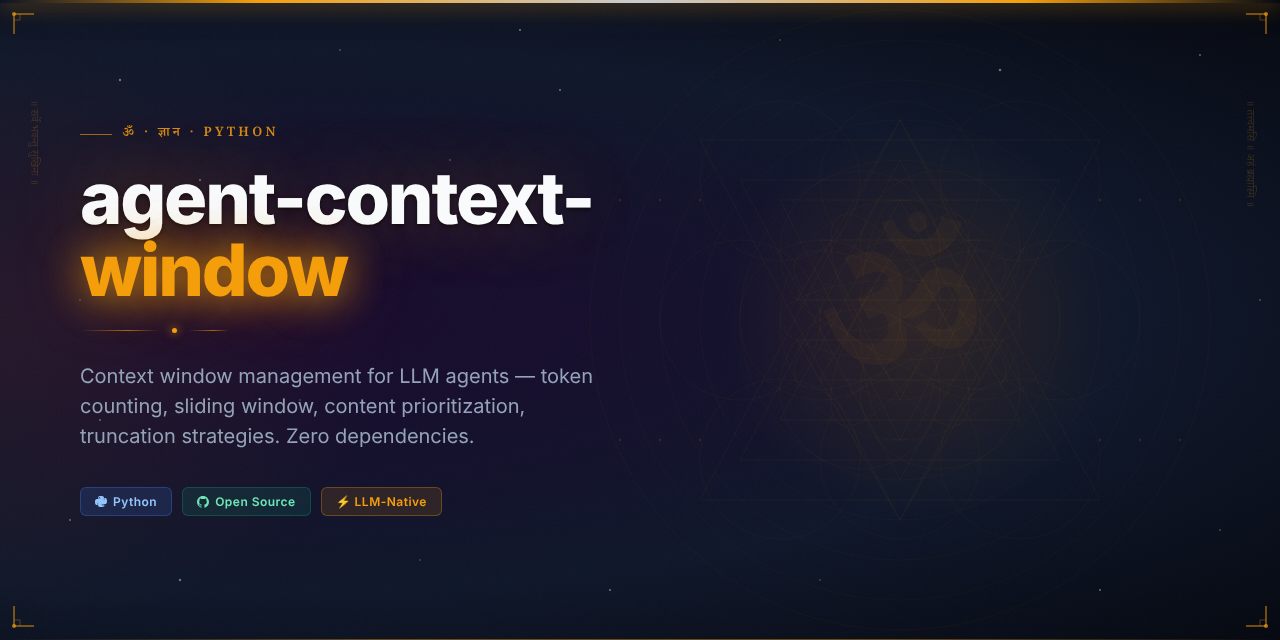
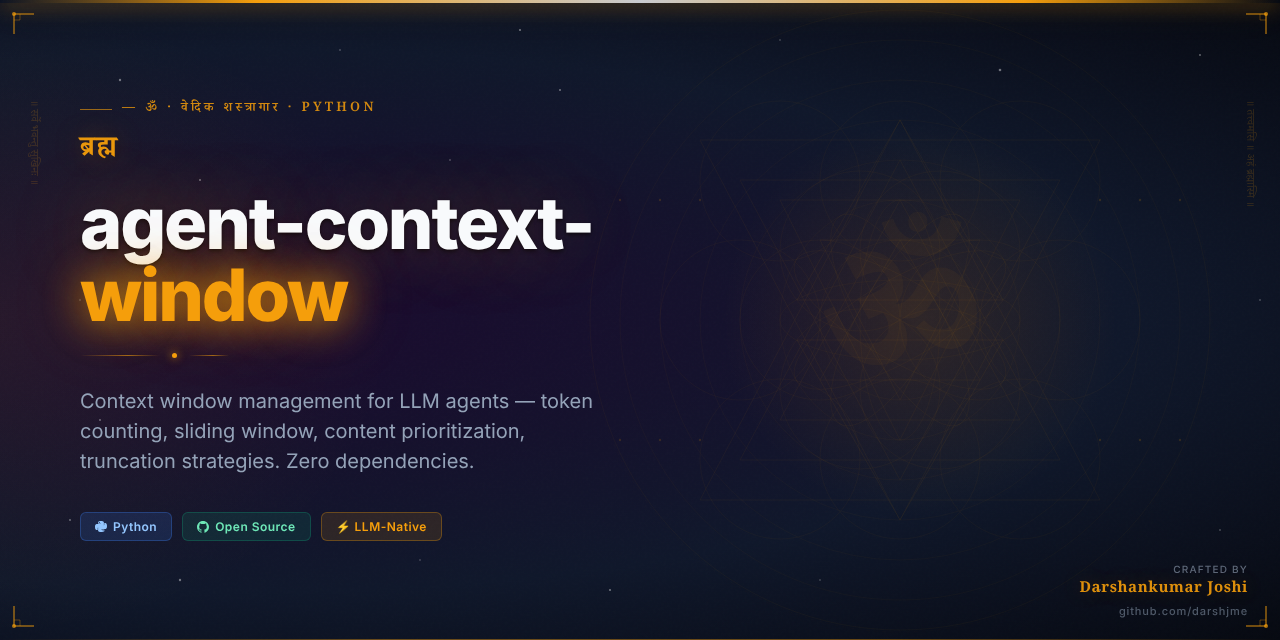
feat: add Vedic Arsenal hero image and updated README
Part of darshjme/arsenal — 100 production-grade Python libraries for LLM agents.
Vedic branding: ancient philosophy meets modern AI engineering.

Changed region(s): [[0.0625, 0.2812, 0.4688, 0.8438], [0.0625, 0.1562, 0.2812, 0.25], [0.8438, 0.875, 0.9688, 0.9688]]

diff --git a/README.md b/README.md
@@ -1,10 +1,12 @@
 <div align="center">
 
-<img src="assets/agent-context-window-hero.png" alt="agent-context-window — Vedic Arsenal" width="100%" />
+<img src="assets/agent-context-window-hero.png" alt="agent-context-window — Vedic Arsenal by Darshankumar Joshi" width="100%" />
 
 # ⚡ agent-context-window
 
-### *ब्रह्म* — Brahma — the universal intelligence
+<h3><em>ब्रह्म</em></h3>
+
+> *Brahma — the universal intelligence*
 
 **Context window management for LLM agents — token counting, sliding window, content prioritization, truncation strategies. Zero dependencies.**
 
@@ -39,6 +41,19 @@ Or clone directly:
 git clone https://github.com/darshjme/agent-context-window.git
 cd agent-context-window
 pip install -e .
+```
+
+## How It Works
+
+```mermaid
+flowchart LR
+    A[Input] --> B[agent-context-window]
+    B --> C{Process}
+    C -- Success --> D[Output]
+    C -- Error --> E[Handle / Retry]
+    E --> B
+    style B fill:#6b21a8,color:#fff
+    note["Context Window — Zero Dependencies"]
 ```
 
 ## Quick Start
@@ -90,7 +105,7 @@ MIT — use freely, build freely.
 
 <div align="center">
 
-**Built with ⚡ by [Darshankumar Joshi](https://github.com/darshjme)**
+**Built with ⚡ by [Darshankumar Joshi](https://github.com/darshjme)** · [@thedarshanjoshi](https://twitter.com/thedarshanjoshi)
 
 *"कर्मण्येवाधिकारस्ते मा फलेषु कदाचन"*
 *Your right is to action alone, never to the fruits thereof.*
